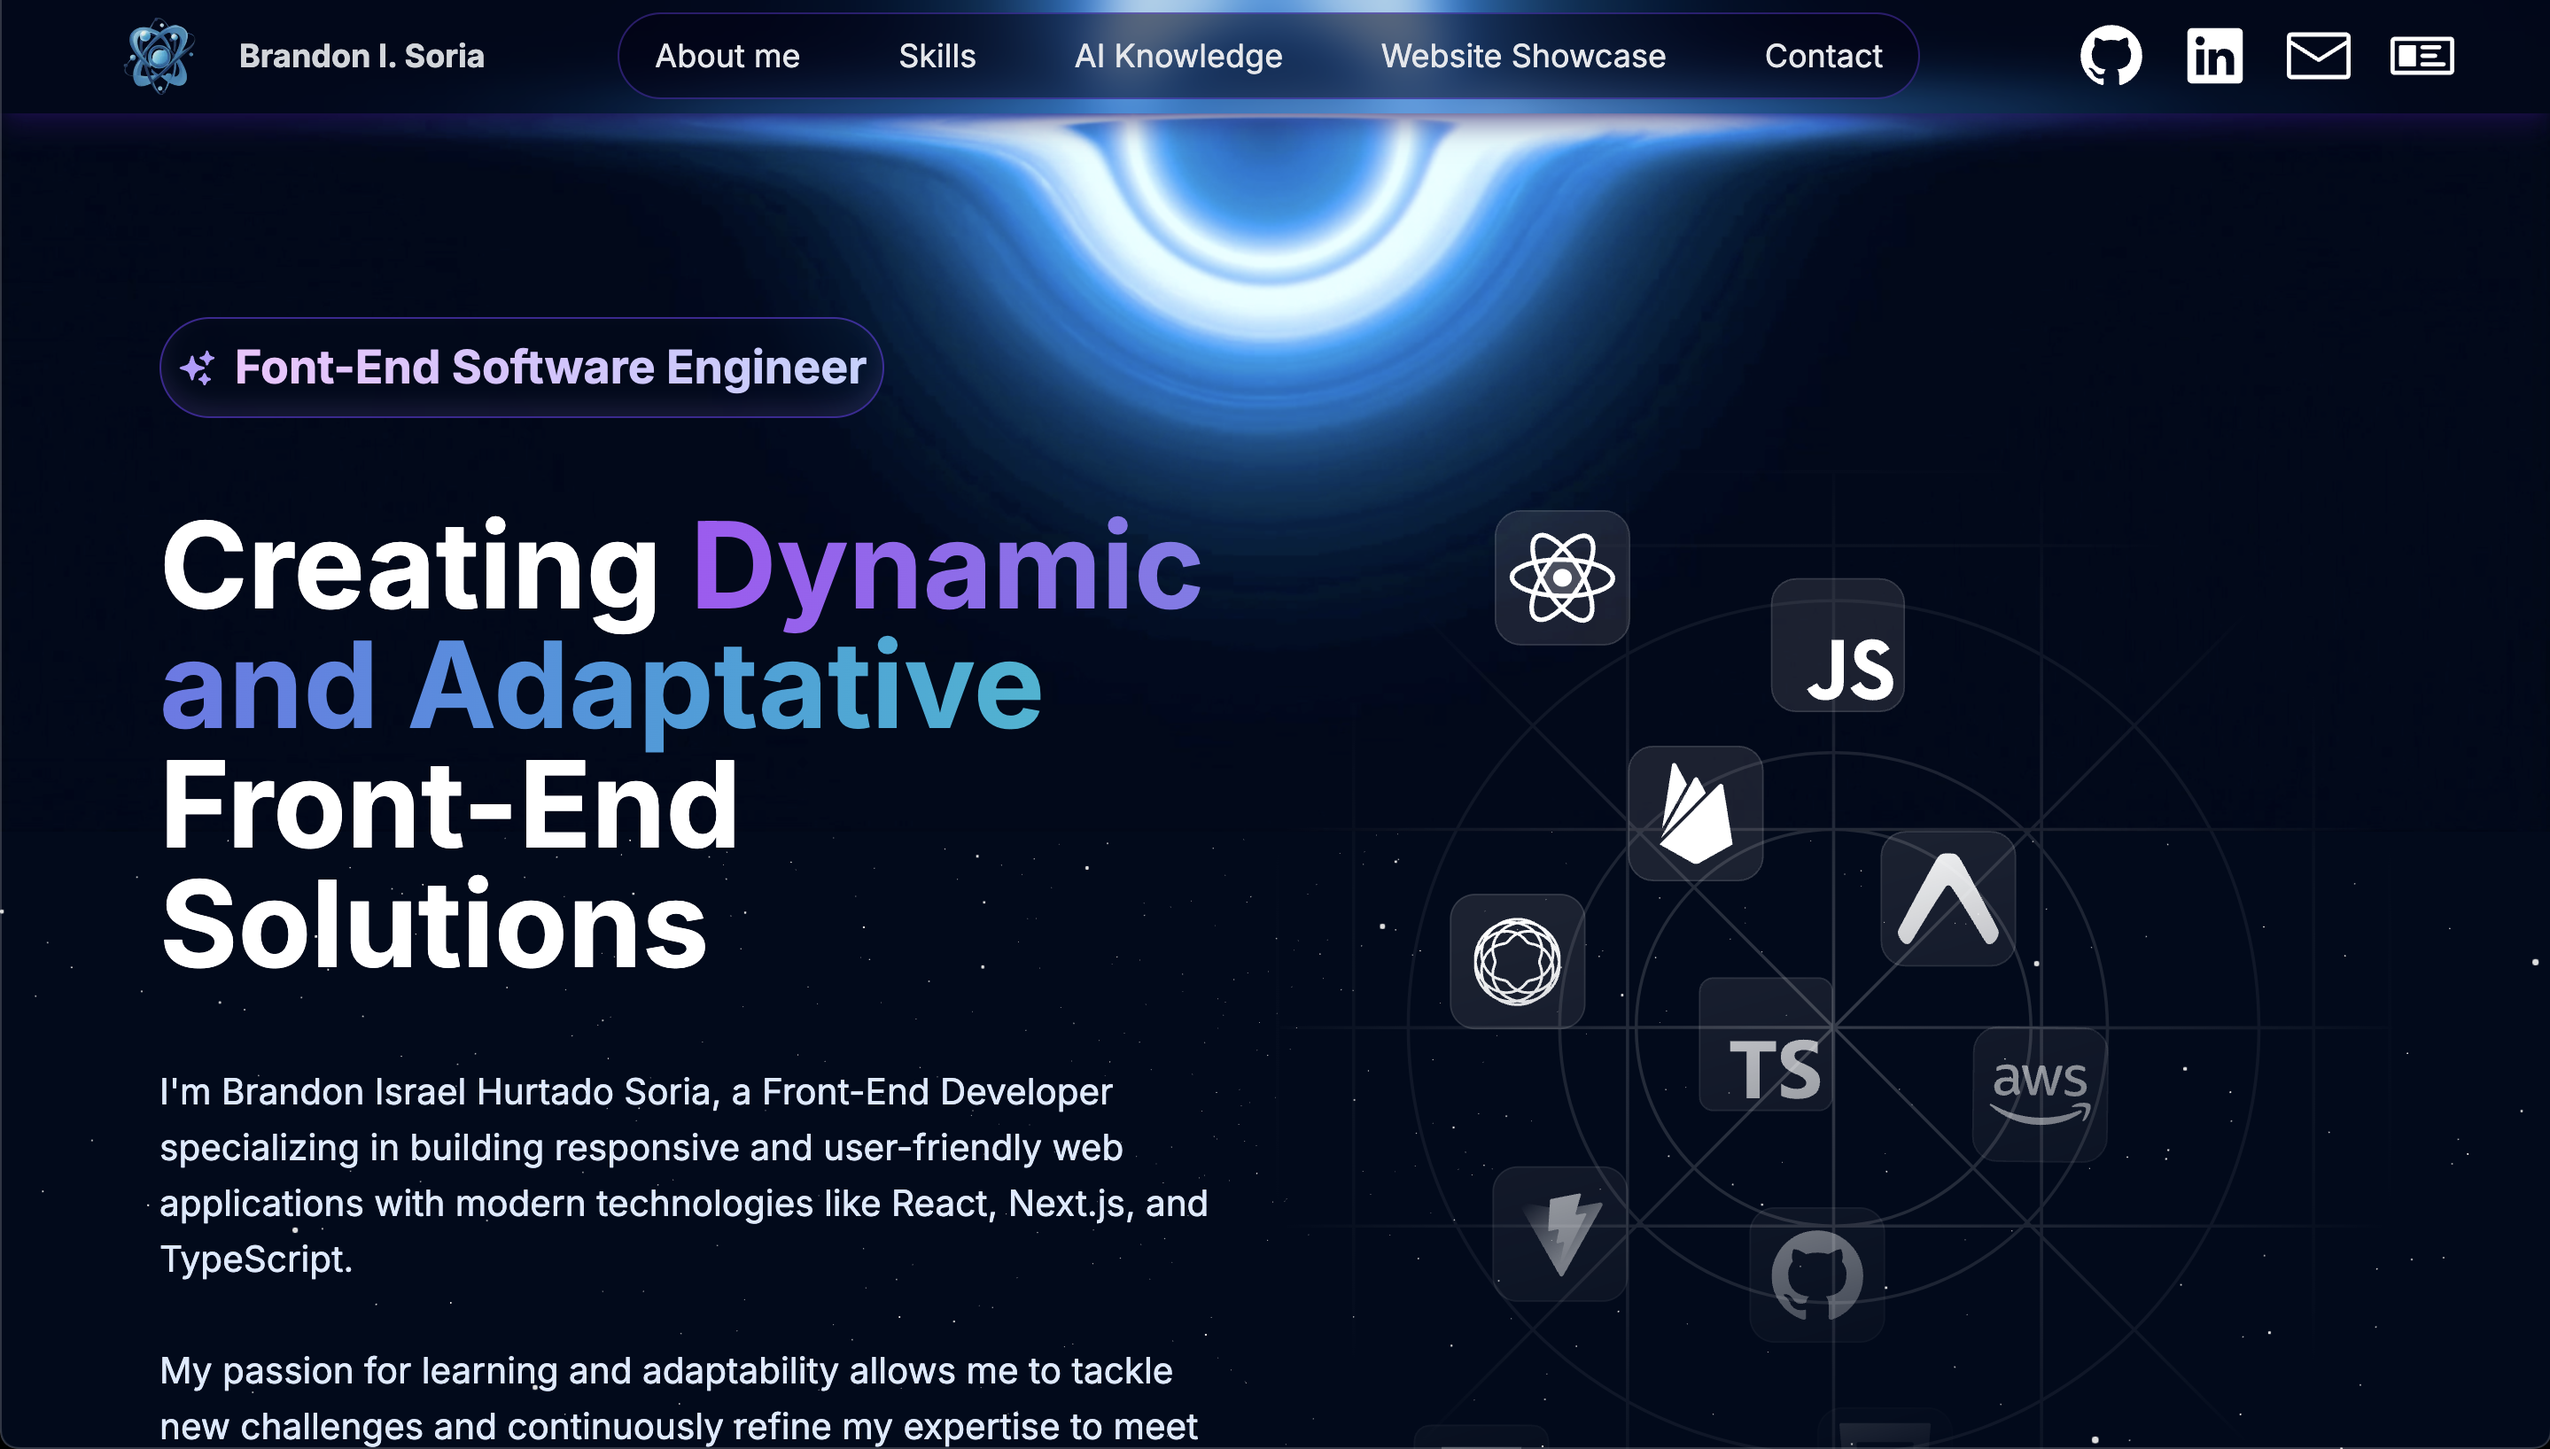
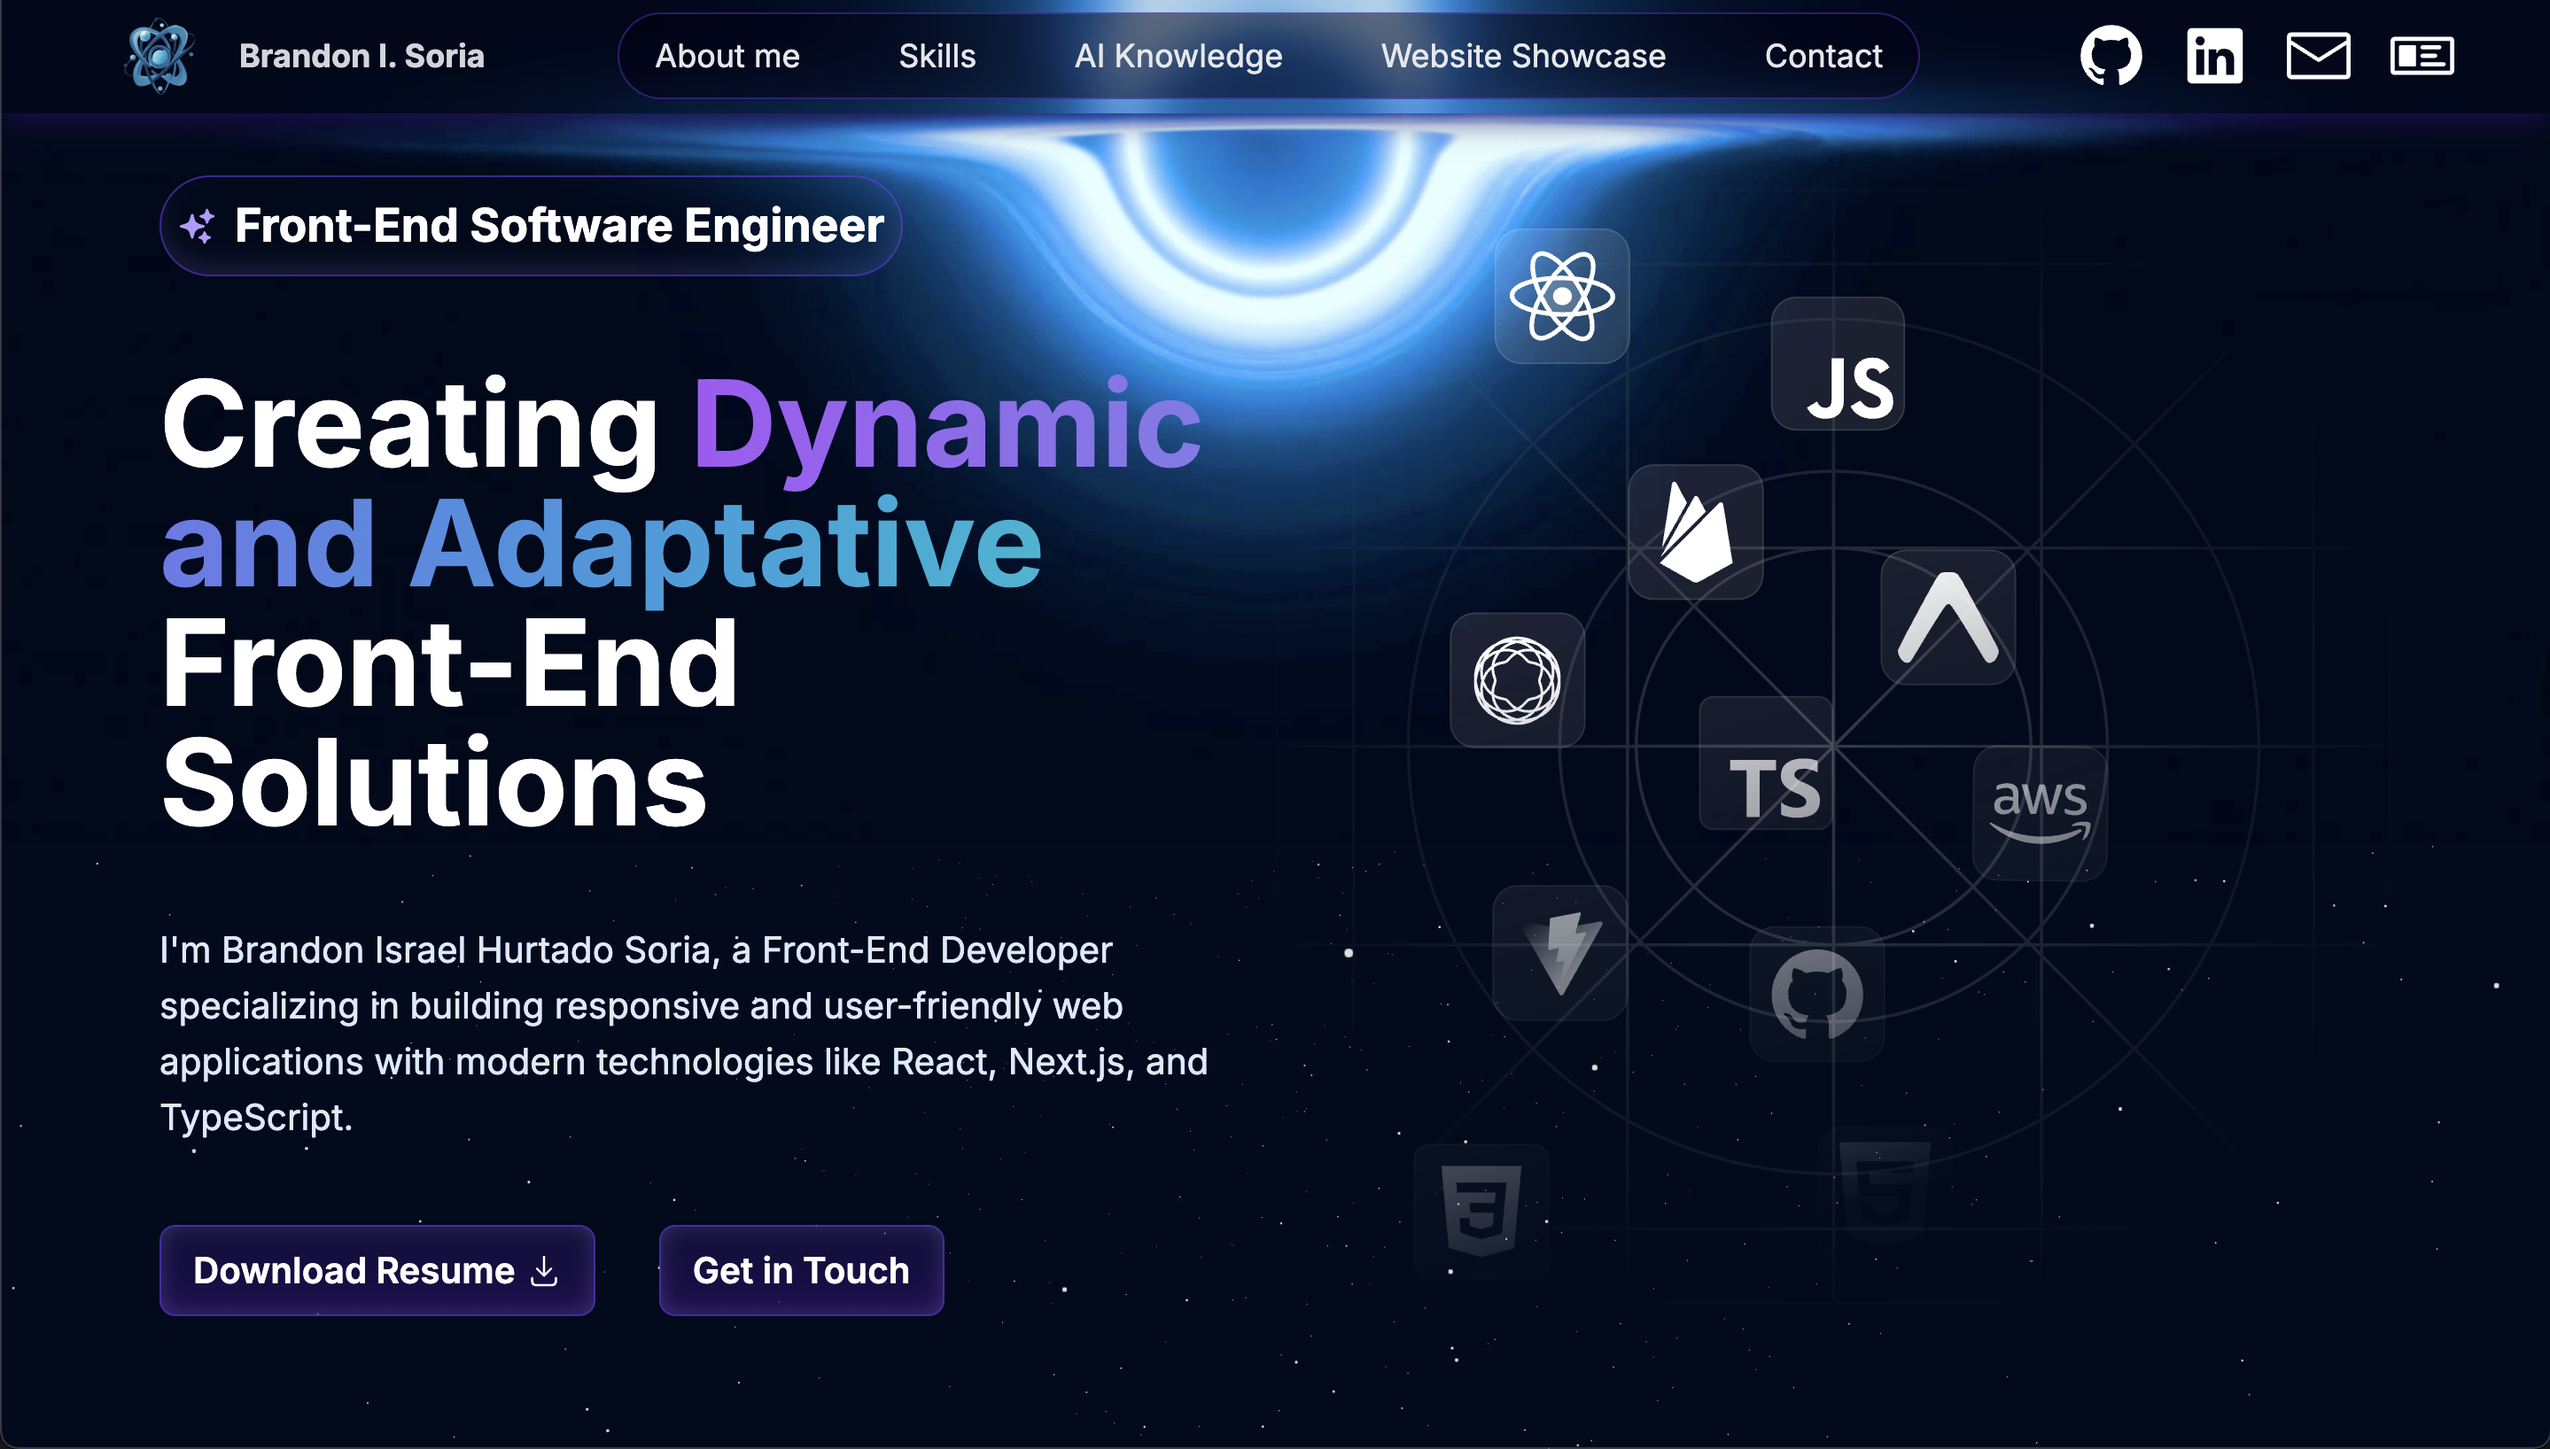
Updated Portfolio Images

diff --git a/components/sub/HeroContent.tsx b/components/sub/HeroContent.tsx
@@ -31,7 +31,7 @@ const HeroContent = () => {
           variants={slideInFromTop}
           className='Welcome-box font-bold py-[8px] px-[9px] border border-[#7042f88b] opacity-[0.9]'>
           <SparklesIcon className='text-[#b49bff] mr-[10px] h-5 w-5'></SparklesIcon>
-          <h1 className='text-white text-[26px]'>Font-End Software Engineer</h1>
+          <h1 className='text-white text-[26px]'>Front-End Software Engineer</h1>
         </motion.div>
 
         <motion.div
@@ -47,8 +47,7 @@ const HeroContent = () => {
         <motion.p
           variants={slideInFromLeft(0.8)}
           className='text-lg text-blue-100 my-5 max-w-[600px]'>
-          I'm Brandon Israel Hurtado Soria, a Front-End Developer specializing in building responsive and user-friendly web applications with modern technologies like React, Next.js, and TypeScript. <br /> <br /> My passion for learning and adaptability allows me to tackle new challenges and
-          continuously refine my expertise to meet project needs while embracing every opportunity to study and grow my skill set.
+          I'm Brandon Israel Hurtado Soria, a Front-End Developer specializing in building responsive and user-friendly web applications with modern technologies like React, Next.js, and TypeScript. <br />
         </motion.p>
 
         <div className='flex justify-start space-x-4'>

diff --git a/components/main/Projects.tsx b/components/main/Projects.tsx
@@ -67,7 +67,19 @@ const Projects = () => {
       <ProjectCardCarousel
         images={[
           { src: '/5-eCommerce/1.png', alt: 'Description' },
-          { src: '/5-eCommerce/1.png', alt: 'Description' },
+          { src: '/5-eCommerce/2.png', alt: 'Description' },
+          { src: '/5-eCommerce/3.png', alt: 'Description' },
+          { src: '/5-eCommerce/4.png', alt: 'Description' },
+          { src: '/5-eCommerce/5.png', alt: 'Description' },
+          { src: '/5-eCommerce/6.png', alt: 'Description' },
+          { src: '/5-eCommerce/7.png', alt: 'Description' },
+          { src: '/5-eCommerce/8.png', alt: 'Description' },
+          { src: '/5-eCommerce/9.png', alt: 'Description' },
+          { src: '/5-eCommerce/10.png', alt: 'Description' },
+          { src: '/5-eCommerce/11.png', alt: 'Description' },
+          { src: '/5-eCommerce/12.png', alt: 'Description' },
+          { src: '/5-eCommerce/13.png', alt: 'Description' },
+          { src: '/5-eCommerce/14.png', alt: 'Description' },
         ]}
         title='eCommerce & Admin Panel'
         technologies='Tailwind, ShadCN, TypeScript, NextJS, MERN, Stripe'

diff --git a/components/main/Hero.tsx b/components/main/Hero.tsx
@@ -4,13 +4,13 @@ import HeroContent from '../sub/HeroContent';
 const Hero = () => {
   return (
     <div
-      className='relative flex flex-col h-full w-full top-[-57px]'
+      className='relative flex flex-col h-full w-full top-[-80px]'
       id='hero'>
       <video
         autoPlay
         muted
         loop
-        className='rotate-180 absolute top-[-212px] left-0 z-[1] w-full h-full object-'>
+        className='rotate-180 absolute top-[-260px] left-0 z-[1] w-full h-full object-'>
         {/* top-[-212px] 255 */}
         <source
           // src='blackhole_blue_2.webm'

diff --git a/components/sub/SkillText.tsx b/components/sub/SkillText.tsx
@@ -83,7 +83,7 @@ const SkillText = () => {
         <motion.div
           variants={slideInFromTop}
           className='Secondary-box font-bold py-[0.5px] px-[8px] border border-[#42ddf85e] mb-[6px]'>
-          <h1 className='Secondary-text text-[16px] text-[#42ddf8a6]'>React Testing</h1>
+          <h1 className='Secondary-text text-[16px] text-[#42ddf8a6]'>React Testing Library</h1>
         </motion.div>
 
         <motion.div
